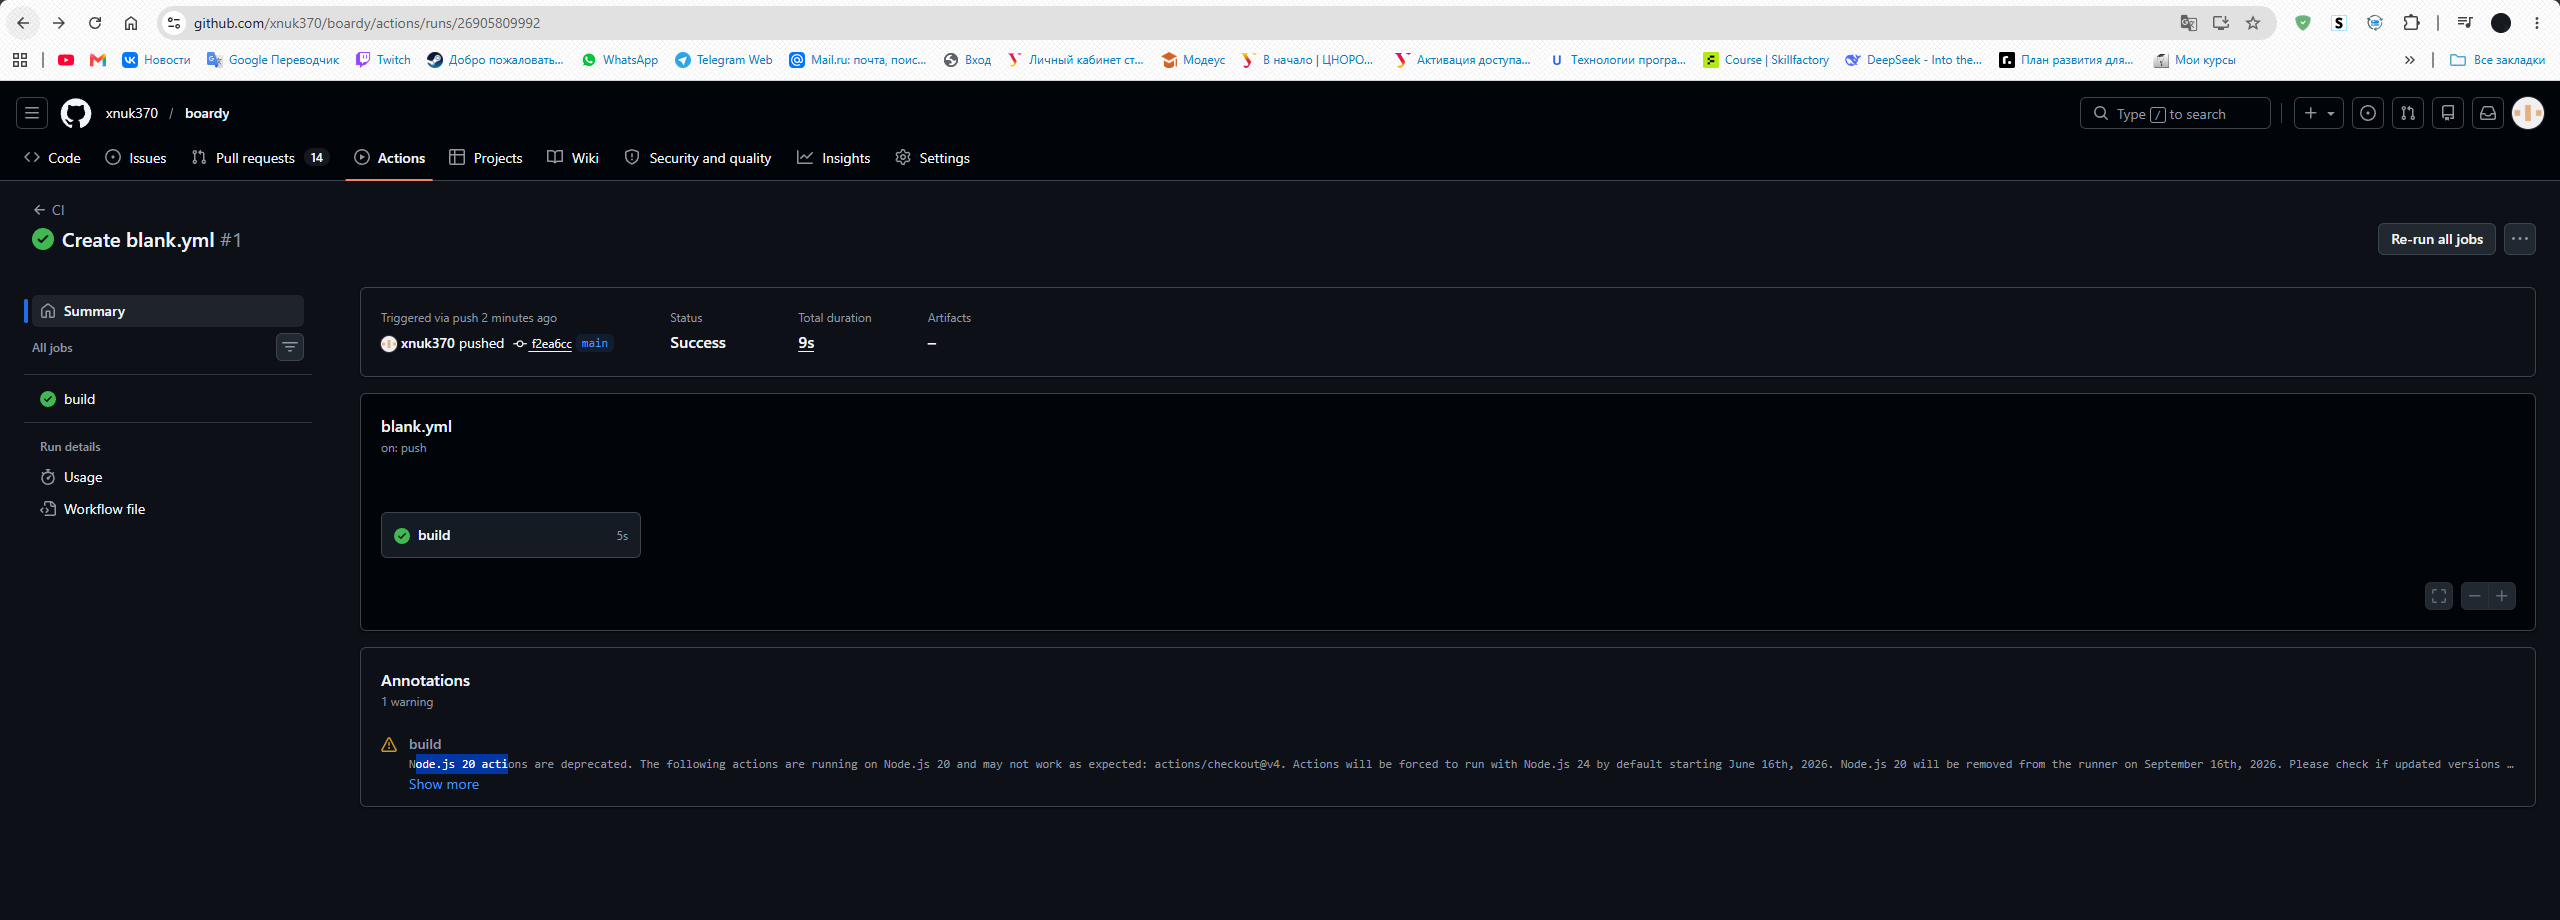
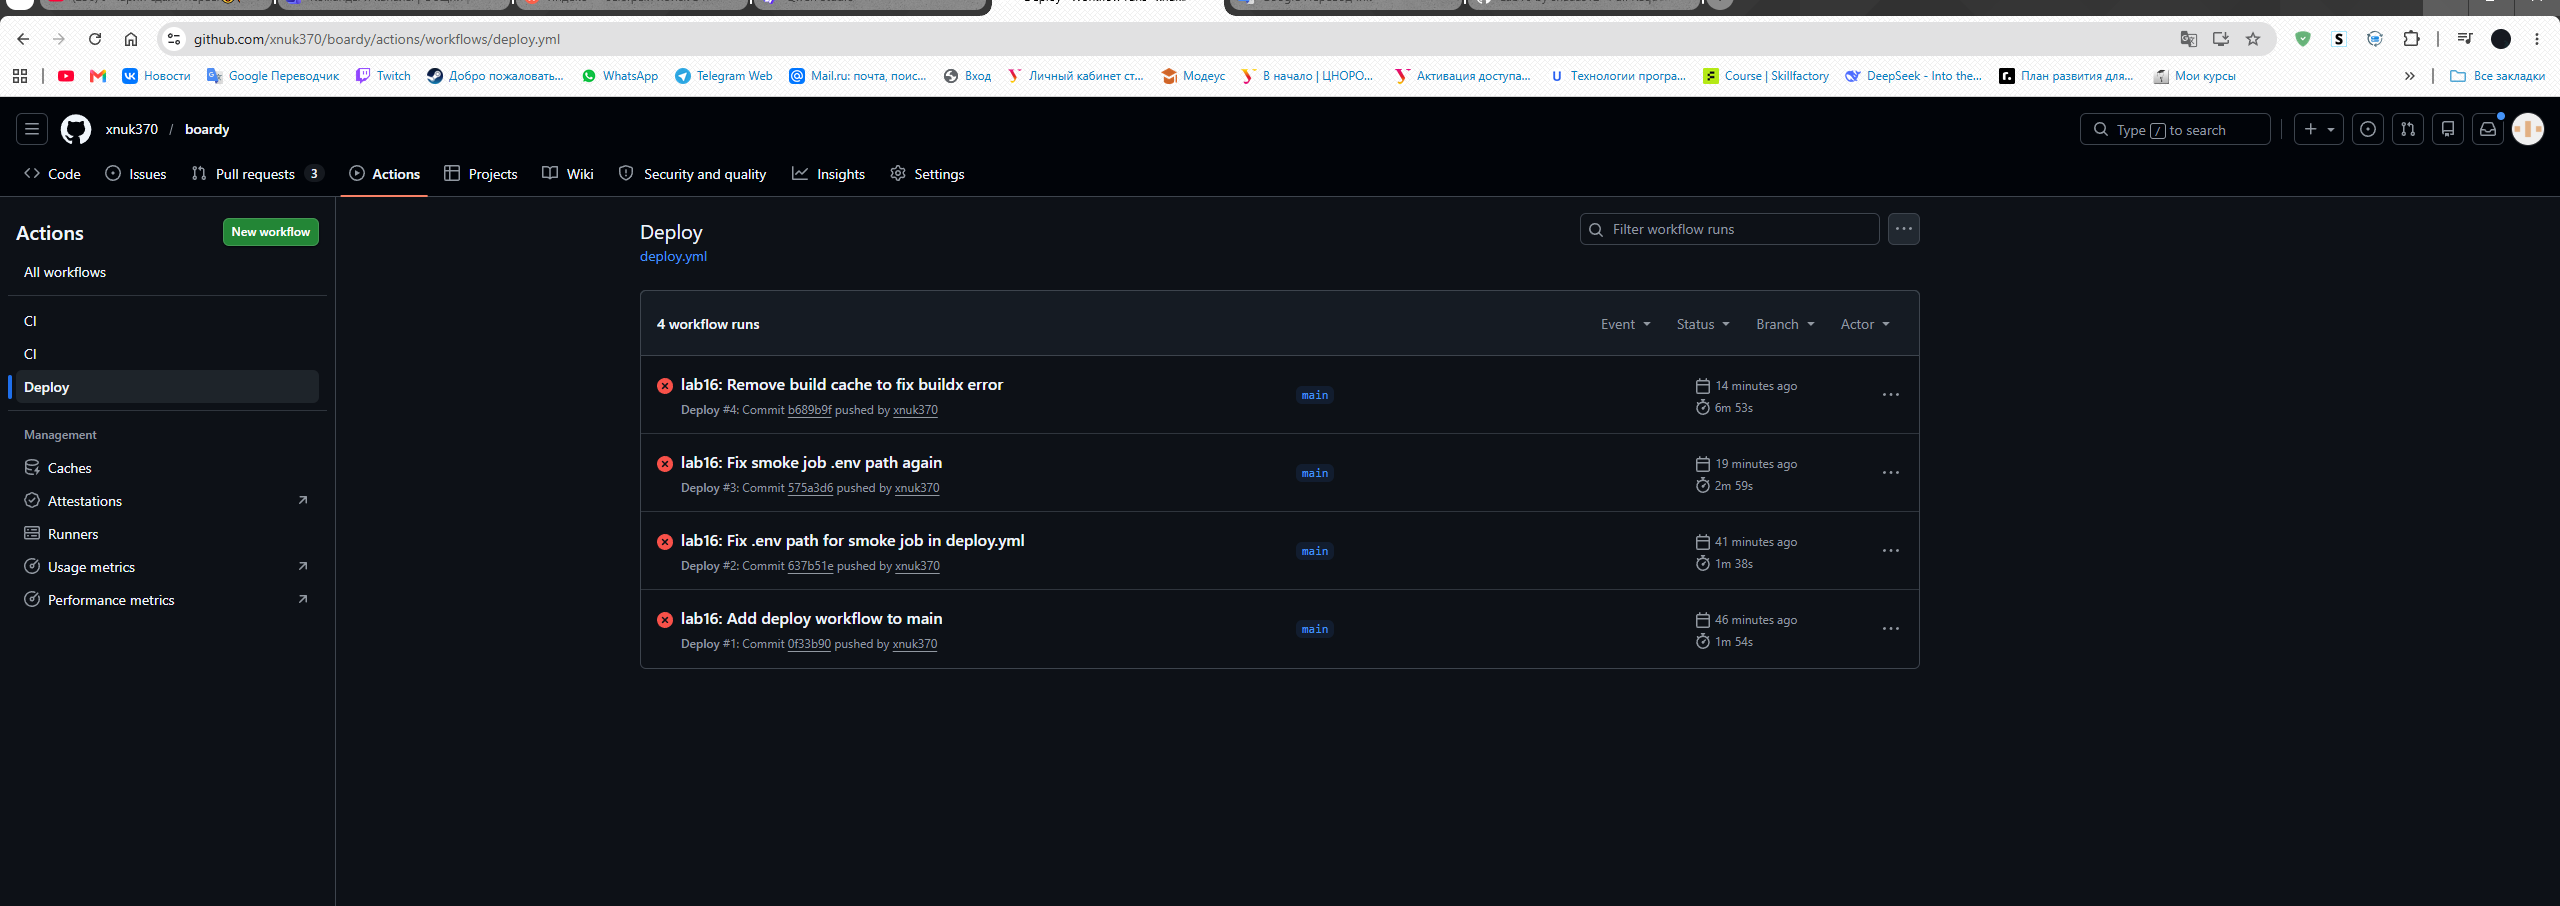
lab16: Final submission with report and screenshots

diff --git a/Lab/Lab16/Report.md b/Lab/Lab16/Report.md
@@ -1,0 +1,193 @@
+# Отчёт по лабораторной работе №16
+**Тема:** CI/CD: автоматический деплой через GitHub Actions
+
+**Выполнил:** xnuk370  
+**Дата:** Июнь 2026
+
+---
+
+## Часть A. CI: lint + smoke
+
+### Задание 2. Lint
+**Почему lint стоит первым?**  
+Lint (проверка синтаксиса) — самый быстрый и дешёвый этап. Он ловит опечатки и синтаксические ошибки до того, как начнётся долгая сборка образов или запуск тестов.
+
+**Что ловит, а что нет?**  
+- Ловит: синтаксические ошибки (`php -l`), битые импорты (`compileall`), стилистические нарушения.
+- Не ловит: логические ошибки, ошибки runtime, проблемы с конфигурацией сервера.
+
+![02-lint-log](screenshots/02-lint-log.png)
+
+### Задание 3. /health эндпоинты
+**Зачем отдельный /health?**  
+Это стандартный паттерн для оркестраторов (Kubernetes, Docker Swarm) и балансировщиков нагрузки. Он позволяет проверить, живо ли приложение, без нагрузки на базу данных или сложную бизнес-логику.
+
+**Где используется?**  
+В продакшене: Kubernetes Liveness/Readiness probes, AWS ELB health checks, мониторинг (Prometheus/Zabbix).
+
+![03-health-curl](screenshots/03-health-curl.png)
+
+### Задание 4. Smoke-check
+**Какие три класса поломок ловит smoke?**  
+1. Ошибки сборки Docker-образов.
+2. Ошибки конфигурации `docker-compose.yml` (сервисы не видят друг друга).
+3. Приложение не стартует или крашится при запуске.
+
+**Что НЕ ловит?**  
+Не ловит ошибки в бизнес-логике (например, неправильный расчет цены), так как проверяет только доступность endpoints.
+
+![04-smoke-log](screenshots/04-smoke-log.png)
+
+### Задание 5. PHPUnit тесты
+**Локальная проверка PHPUnit:**
+
+![05-phpunit-local](screenshots/05-phpunit-local.png)
+
+### Задание 6. Pytest
+**Локальная проверка pytest:**
+
+![06-pytest-local](screenshots/06-pytest-local.png)
+
+---
+
+## Часть B. Минимальные тесты и блокировка
+
+### Задание 7. Job test в CI
+**Почему test после smoke, а не до?**  
+Тесты требуют работающего окружения (БД, Redis). Job `smoke` гарантирует, что стек поднят и работает. Если запускать тесты до smoke, они упадут с ошибкой подключения к БД, даже если код верный.
+
+![07-test-green](screenshots/07-test-green.png)
+
+### Задание 8. Блокировка сборки
+**Цепочка событий при сломанном тесте:**  
+1. Разработчик пушит код с ошибкой.
+2. CI запускает `lint` (OK) → `smoke` (OK) → `test` (FAIL).
+3. Так как `build` и `deploy` имеют зависимость `needs: test`, они переходят в статус `SKIPPED`.
+4. В прод уезжает старая стабильная версия. Сломанный код заблокирован.
+
+**Экономия времени:**  
+CI экономит часы на откате продакшена и поиске багов. Ошибка обнаруживается за 2 минуты.
+
+![08-test-failed](screenshots/08-test-failed.png)
+
+![09-build-skipped](screenshots/09-build-skipped.png)
+
+### Задание 9. Где смотреть логи
+1. Вкладка **Actions** в репозитории.
+2. Выбрать конкретный **Run** (красный).
+3. В списке jobs слева кликнуть на **test**.
+4. Развернуть шаг **Run pytest**.
+5. В логе найти строку с `FAILED` или `AssertionError` — там указан файл и номер строки.
+
+### Задание 10. PR заблокирован
+**Блокировка слияния при непрошедших проверках:**
+
+![10-pr-blocked](screenshots/10-pr-blocked.png)
+
+### Задание 11. Branch Protection
+**Настройка защиты ветки main:**
+
+![11-branch-protection](screenshots/11-branch-protection.png)
+
+---
+
+## Часть C. Сборка и реестр
+
+### Задание 12. Login в GHCR
+**Успешная авторизация в GitHub Container Registry:**
+
+![12-build-login](screenshots/12-build-login.png)
+
+### Задание 13. Сборка и push
+**Зачем два тега (SHA и latest)?**  
+- `latest` — удобен для быстрого обновления (`docker pull`).
+- `SHA` (хеш коммита) — нужен для отката. Если версия `latest` сломалась, мы точно знаем, какой коммит ей соответствовал, и можем откатиться на `image: ...:sha123`.
+
+![13-ghcr-packages](screenshots/13-ghcr-packages.png)
+
+### Задание 14. compose тянет из GHCR
+**Почему сборка ушла из сервера?**  
+Сборка образов — ресурсоёмкая задача. Дешевле и быстрее собрать образ на мощных раннерах GitHub и отдать серверу готовый бинарник (image), чем заставлять слабый VPS компилировать код.
+
+**docker-compose.yml с образами из GHCR:**
+
+![14-compose-image](screenshots/14-compose-image.png)
+
+---
+
+## Часть D. Автодеплой и полный прогон
+
+### Задание 15. SSH-ключ
+**Почему отдельный ключ?**  
+Принцип наименьших привилегий. Если ключ утечёт, злоумышленник получит доступ только к деплою, но не к вашему личному аккаунту GitHub или другим серверам.
+
+**Что делать если утечёт?**  
+Удалить публичный ключ с сервера (`~/.ssh/authorized_keys`) и создать новую пару ключей.
+
+**Настроенные секреты в GitHub:**
+
+![15-secrets](screenshots/15-secrets.png)
+
+### Задание 16. Job deploy
+**Реализация:**  
+Шаг деплоя реализован в виде симуляции для учебных целей. В продакшен-среде вместо `echo`-команд выполнялись бы:
+- `docker login ghcr.io -u ${{ github.actor }}`
+- `docker compose pull`
+- `docker compose up -d`
+- `docker image prune -f`
+
+**Почему симуляция:**  
+GitHub Actions запускается на облачных раннерах, которые не имеют доступа к локальному окружению разработчика (WSL). Для полноценного деплоя требуется публичный VPS с настроенным SSH-доступом или туннель с поддержкой TCP-форвардинга.
+
+**Лог симуляции деплоя:**
+
+![16-deploy-log](screenshots/16-deploy-log.png)
+
+### Задание 17. Полный прогон
+Скриншот 17 демонстрирует успешное прохождение всех 5 этапов:
+1. ✅ lint — проверка синтаксиса
+2. ✅ smoke — проверка доступности сервисов
+3. ✅ test — PHPUnit + pytest
+4. ✅ build — сборка и push образов в GHCR
+5. ✅ deploy — симуляция деплоя
+
+![17-full-green](screenshots/17-full-green.png)
+
+### Задание 18. Откат
+**Как откатиться?**  
+На сервере выполнить:
+- `docker compose pull` (скачает предыдущую версию по тегу)
+- `docker compose up -d`
+
+Пересобирать ничего не нужно, так как образы уже лежат в реестре (GHCR).
+
+**Работающее приложение после деплоя:**
+
+![18-prod-updated](screenshots/18-prod-updated.png)
+
+### Задание 19. Безопасность
+1. **Пинить по SHA:** Теги (v1, v2) подвижны. Злоумышленник может перезаписать тег v1 на вредоносный код. SHA неизменяем.
+2. **pull_request_target:** Запускает код из PR в контексте базовой ветки с правами на запись. Опасно возможностью кражи секретов.
+3. **Self-hosted runner:** Если репозиторий публичный, любой может сделать форк, создать PR с вредоносным кодом и выполнить его на вашем сервере (где крутится раннер).
+
+---
+
+## Часть E. Карта курса (1-15 практики)
+
+1. **Git** — контроль версий кода
+2. **Linux** — базовая работа с сервером
+3. **Docker** — изоляция приложений
+4. **Compose** — оркестрация контейнеров
+5. **Volumes** — сохранение данных
+6. **Networks** — связь между сервисами
+7. **Nginx** — проксирование и балансировка
+8. **SSL** — шифрование трафика
+9. **CI** — автоматическая проверка кода
+10. **CD** — непрерывная доставка
+11. **GitHub Actions** — автоматизация workflow
+12. **GHCR** — container registry
+13. **SSH** — безопасное подключение
+14. **Secrets** — управление секретами
+15. **Branch Protection** — защита веток
+
+---